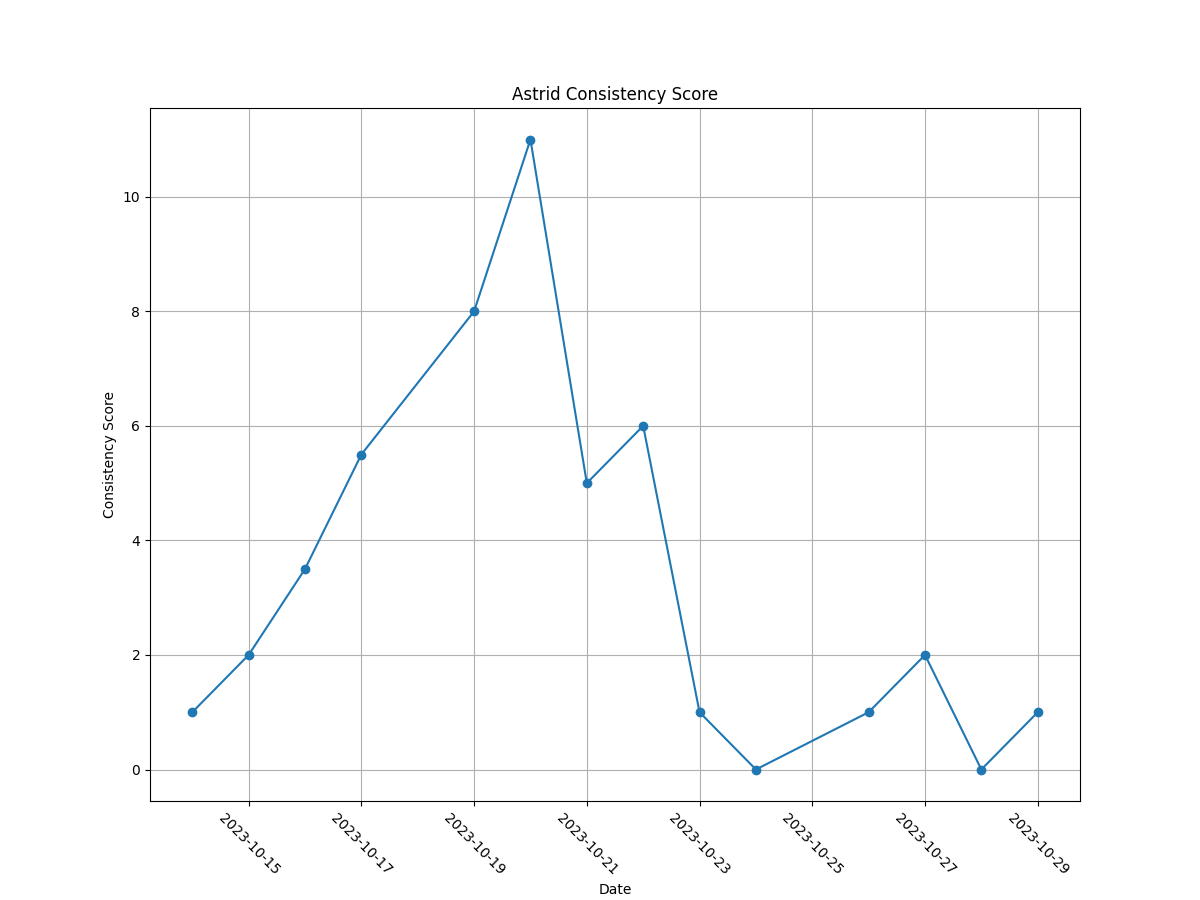
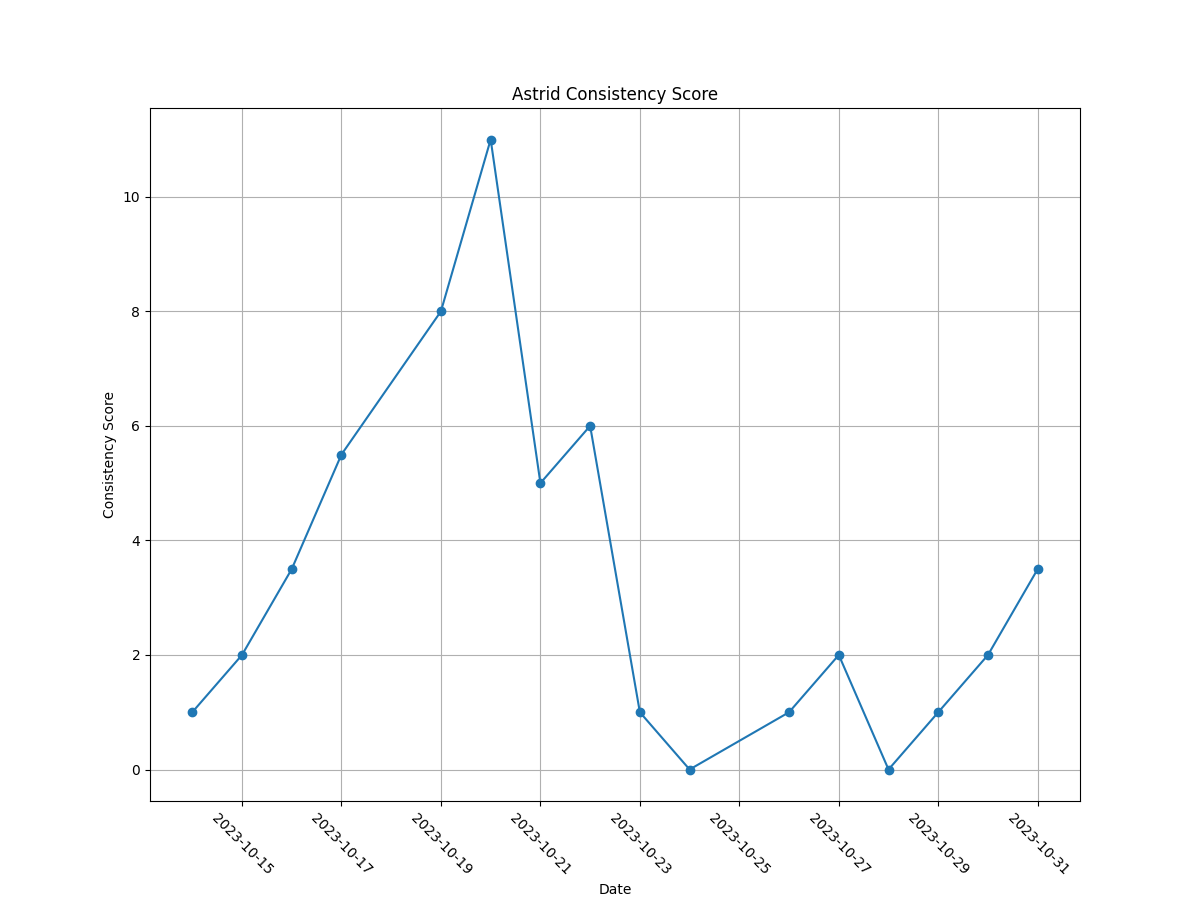
update daily scores

diff --git a/workout/data_sota.py b/workout/data_sota.py
@@ -21,6 +21,10 @@ SOTA_DATA = [
     {"date": "2023-10-19", "distance_miles": 2.42, "time_minutes": 30, "name": "Sota"},
     {"date": "2023-10-21", "distance_miles": 3.01, "time_minutes": 30, "name": "Sota"},
     {"date": "2023-10-23", "distance_miles": 2.80, "time_minutes": 30, "name": "Sota"},
+{"date": "2023-10-25", "distance_miles": 2.94, "time_minutes": 30, "name": "Sota"},
+{"date": "2023-10-26", "distance_miles": 1.37, "time_minutes": 30, "name": "Sota"},
+{"date": "2023-10-28", "distance_miles": 1.29, "time_minutes": 30, "name": "Sota"},
+{"date": "2023-10-30", "distance_miles": 2.90, "time_minutes": 30, "name": "Sota"},
 ]
 
 SOTA_CONSISTENCY_TUPLES = [(datum['time_minutes'], util.to_date(datum['date'])) for datum in SOTA_DATA]

diff --git a/workout/data_zena.py b/workout/data_zena.py
@@ -22,6 +22,9 @@ ZENA_DATA = [
     {"date": "2023-10-21", "distance_miles": 2.66, "time_minutes": 30, "name": "Zena"},
     {"date": "2023-10-23", "distance_miles": 5.34, "time_minutes": 65, "name": "Zena"},
     {"date": "2023-10-25", "distance_miles": 5.66, "time_minutes": 65, "name": "Zena"},
+{"date": "2023-10-26", "distance_miles": 5.56, "time_minutes": 65, "name": "Zena"},
+{"date": "2023-10-28", "distance_miles": 5.30, "time_minutes": 65, "name": "Zena"},
+{"date": "2023-10-30", "distance_miles": 5.42, "time_minutes": 65, "name": "Zena"},
 ]
 
 ZENA_CONSISTENCY_TUPLES = [(datum['time_minutes'], util.to_date(datum['date'])) for datum in ZENA_DATA]

diff --git a/coding_study/data_astrid.py b/coding_study/data_astrid.py
@@ -15,6 +15,8 @@ ASTRID_DATA = [
 {"date": "2023-10-27", "tasks_completed": 1, "time_minutes": 90, "name": "Astrid"},
 {"date": "2023-10-28", "tasks_completed": 1, "time_minutes": 0, "name": "Astrid"},
 {"date": "2023-10-29", "tasks_completed": 1, "time_minutes": 90, "name": "Astrid"},
+{"date": "2023-10-30", "tasks_completed": 1, "time_minutes": 90, "name": "Astrid"},
+{"date": "2023-10-31", "tasks_completed": 0, "time_minutes": 90, "name": "Astrid"},
 ]
 
 ASTRID_CONSISTENCY_TUPLES = [(datum['time_minutes'], util.to_date(datum['date'])) for datum in ASTRID_DATA]

diff --git a/coding_study/data_cirrus.py b/coding_study/data_cirrus.py
@@ -15,6 +15,8 @@ CIRRUS_DATA = [
 {"date": "2023-10-27", "tasks_completed": 1, "time_minutes": 90, "name": "Cirrus"},
 {"date": "2023-10-28", "tasks_completed": 1, "time_minutes": 0, "name": "Cirrus"},
 {"date": "2023-10-29", "tasks_completed": 1, "time_minutes": 90, "name": "Cirrus"},
+{"date": "2023-10-30", "tasks_completed": 1, "time_minutes": 90, "name": "Cirrus"},
+{"date": "2023-10-31", "tasks_completed": 1, "time_minutes": 90, "name": "Cirrus"},
 ]
 
 CIRRUS_CONSISTENCY_TUPLES = [(datum['time_minutes'], util.to_date(datum['date'])) for datum in CIRRUS_DATA]

diff --git a/earnings/data_gardevoir.py b/earnings/data_gardevoir.py
@@ -1,7 +1,8 @@
 import util
 
 GARDEVOIR_DATA = [
-    {"date": "2023-10-29", "gains": 3.01, "time_minutes": 60, "name": "Gardevoir"},
+    {"date": "2023-10-29", "gains": 2, "time_minutes": 60, "name": "Gardevoir"},
+{"date": "2023-10-30", "gains": 1, "time_minutes": 90, "name": "Gardevoir"}
 ]
 
 GARDEVOIR_CONSISTENCY_TUPLES = [(datum['time_minutes'], util.to_date(datum['date'])) for datum in GARDEVOIR_DATA]

diff --git a/earnings/data_rhodon.py b/earnings/data_rhodon.py
@@ -2,6 +2,7 @@ import util
 
 RHODON_DATA = [
     {"date": "2023-10-29", "gains": 3.01, "time_minutes": 60, "name": "Rhodon"},
+{"date": "2023-10-30", "gains": 0, "time_minutes": 0, "name": "Rhodon"}
 ]
 
 RHODON_CONSISTENCY_TUPLES = [(datum['time_minutes'], util.to_date(datum['date'])) for datum in RHODON_DATA]
